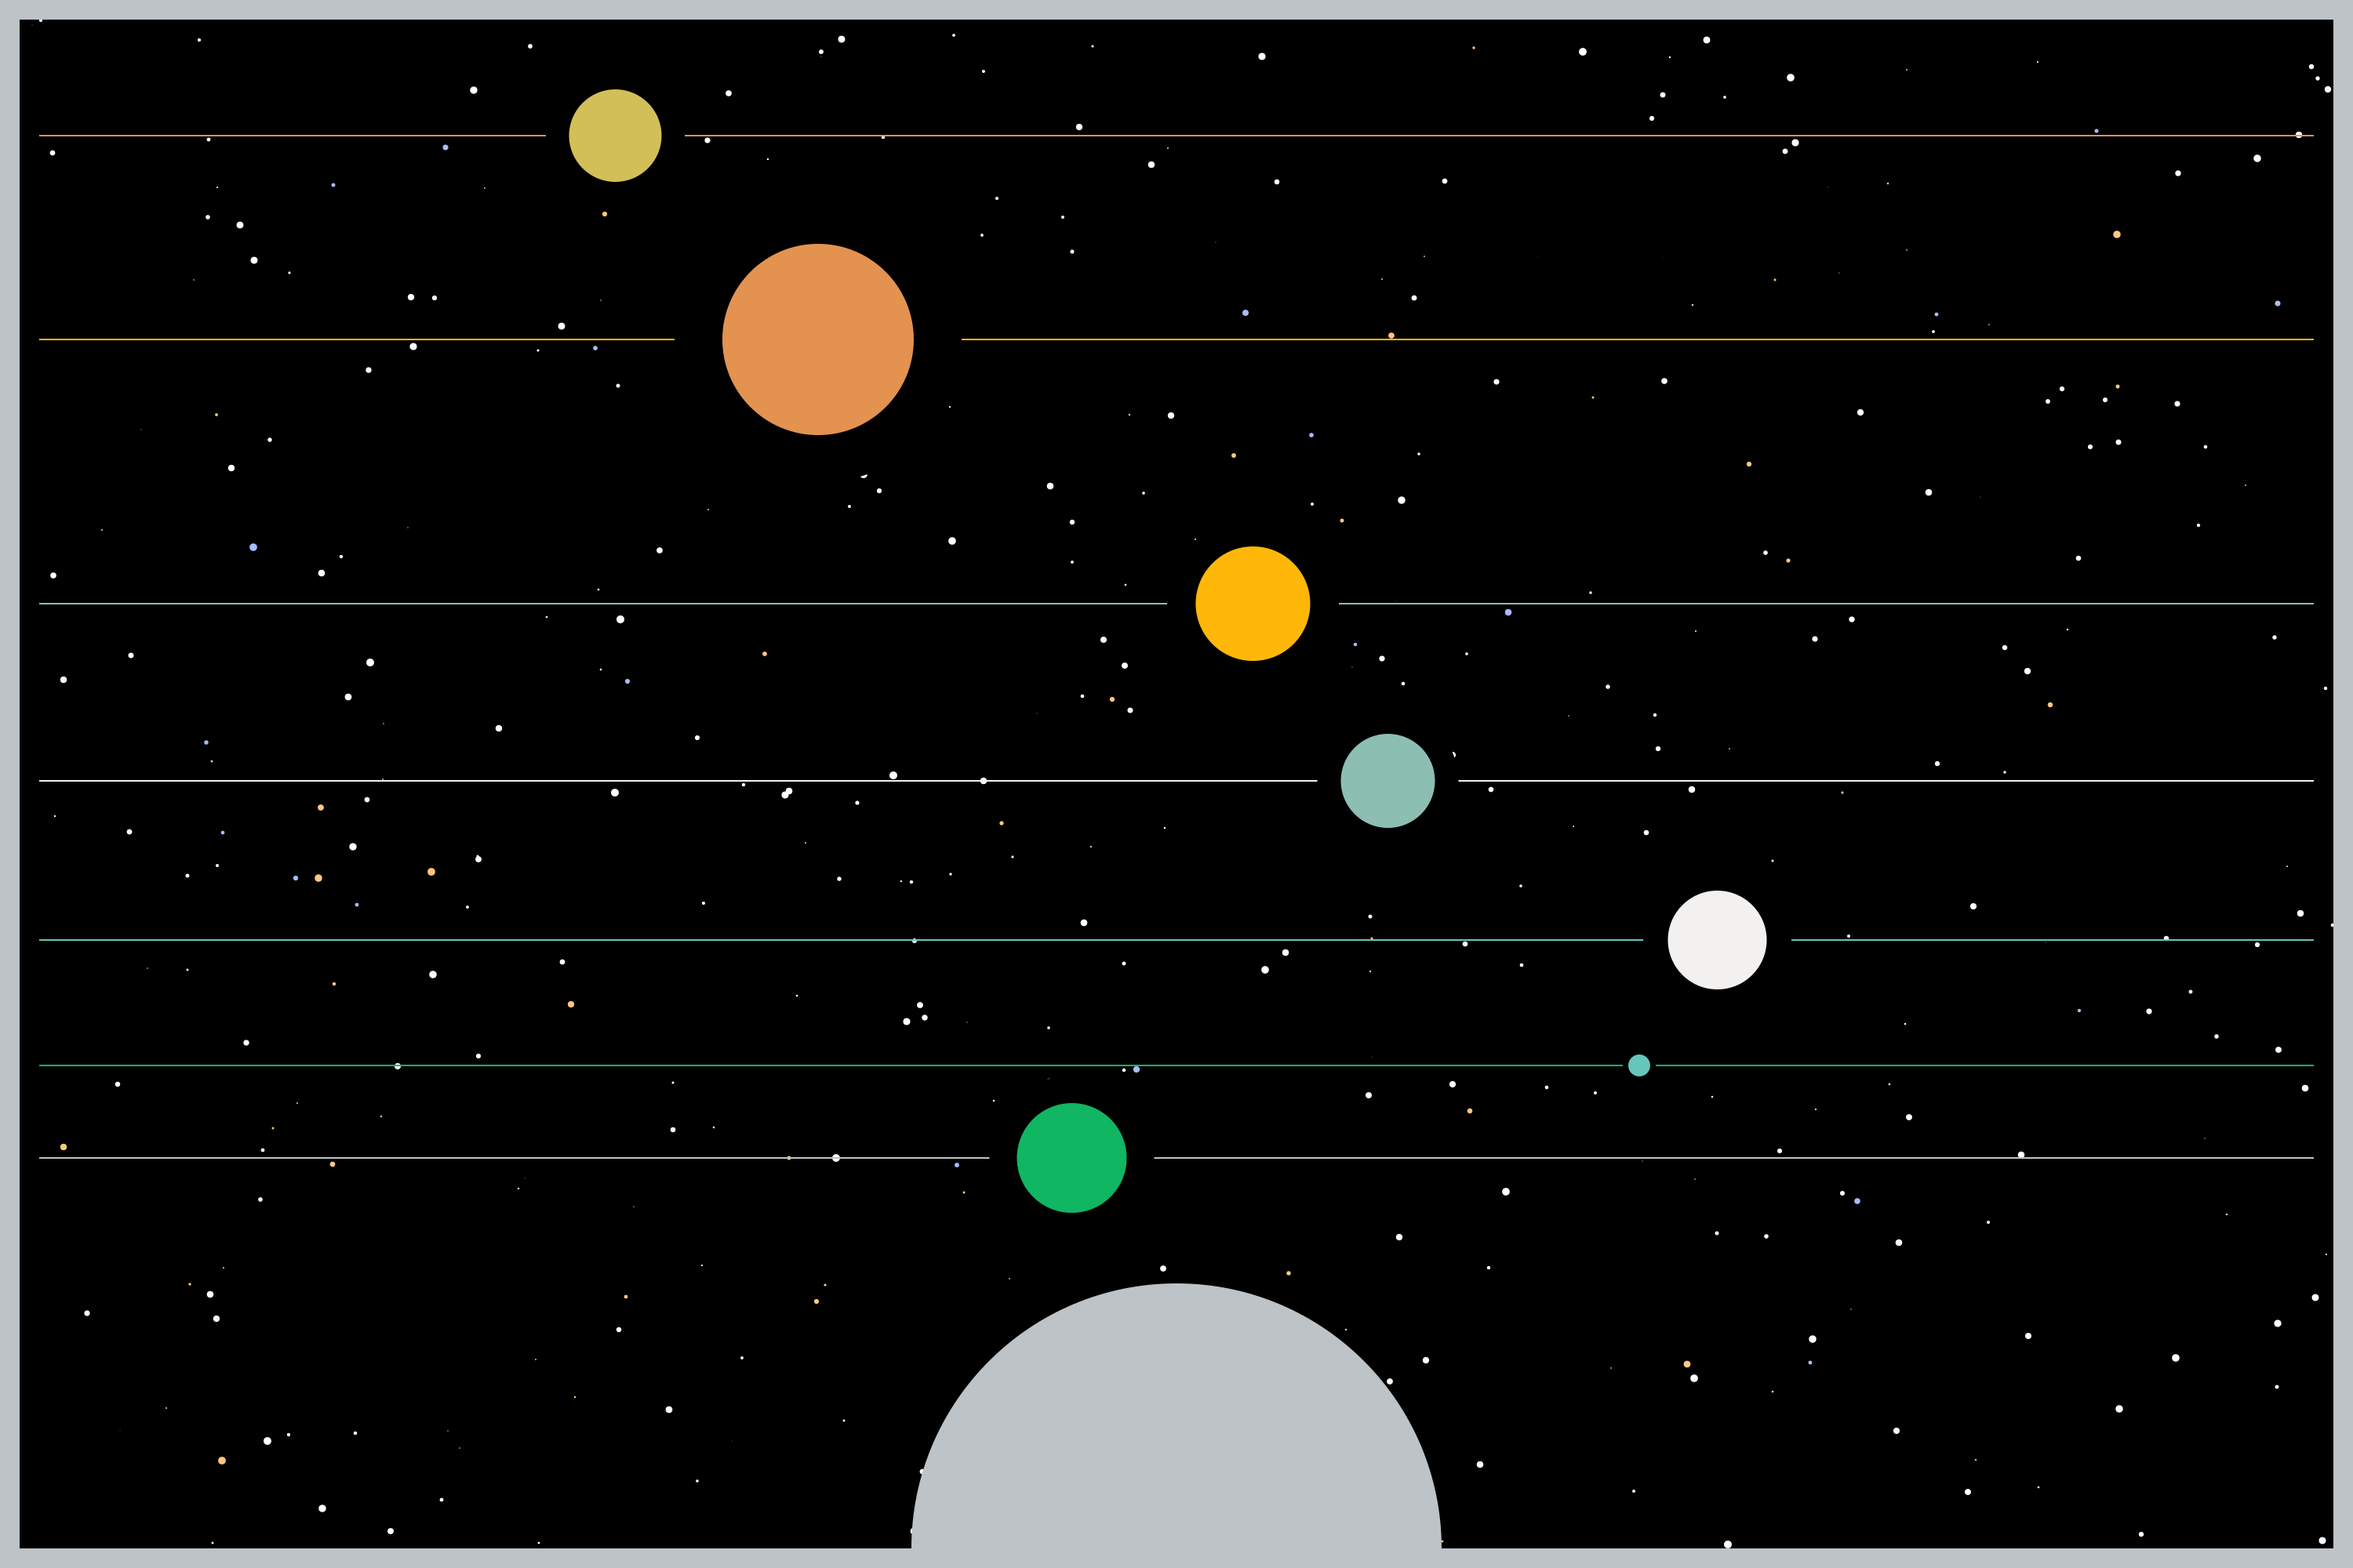
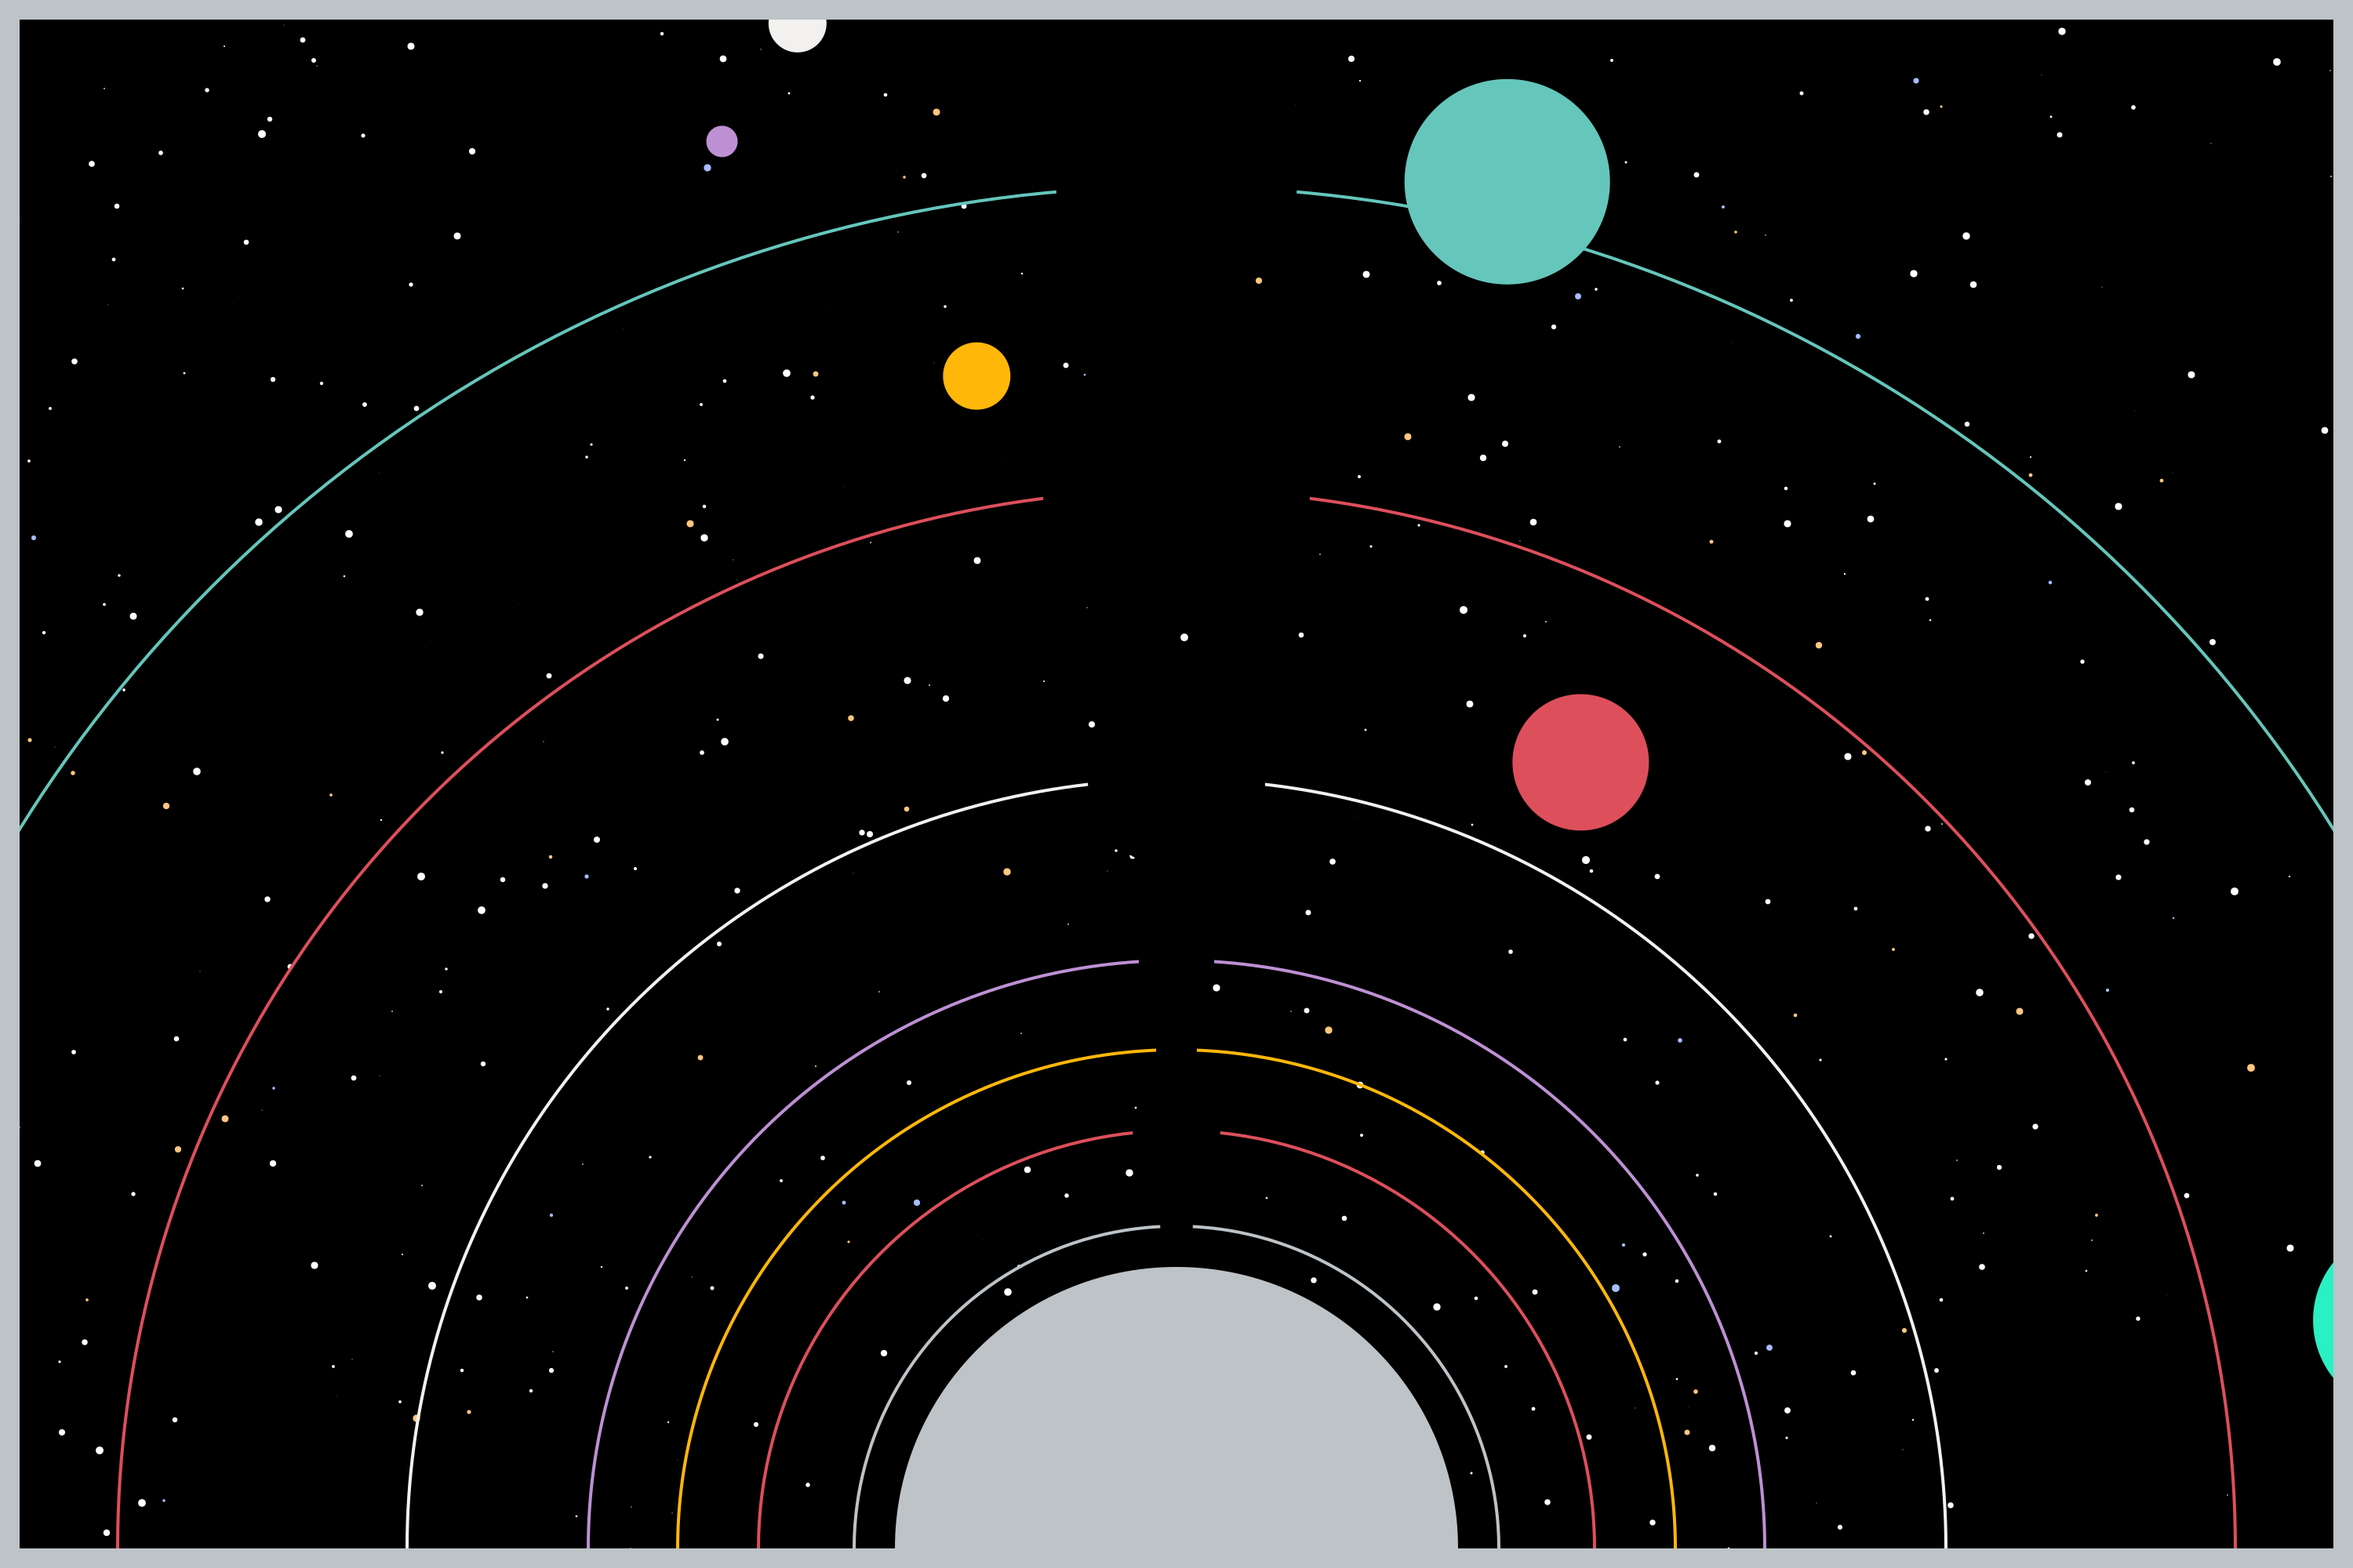
line display randomized

diff --git a/generative-planets.py b/generative-planets.py
@@ -49,16 +49,33 @@ def draw_background(cr, width, height, white, yellow, blue):
         cr.arc(random.randint(0, width), random.randint(0, height), random.uniform(.1, 5), 0, 2*math.pi)
         cr.set_source_rgb(167/255, 188/255, 1)
         cr.fill()
-        
-def points_on_circum(r,n=100):
+
+
+     
+# def points_on_circum(r,n=100):
+#                 points_positive = []
+#                 for x in range(0,n+1):
+#                     xcoord = (math.cos(2*math.pi/n*x)*r)
+#                     ycoord = (math.sin(2*math.pi/n*x)*r)
+#                     if(xcoord > 0 and ycoord > 0):
+#                         points_positive.append((xcoord, ycoord))
+#                 print(points_positive)
+#                 return points_positive
+
+def points_on_circum(r, width):
+                print(r, "this is insive function")
                 points_positive = []
-                for x in range(0,n+1):
-                    xcoord = (math.cos(2*math.pi/n*x)*r)
-                    ycoord = (math.sin(2*math.pi/n*x)*r)
+                for x in range(0, 100):
+                    xcoord = (math.cos(1.8*x) *r) + width/2 
+                    ycoord = (math.cos(x) *r)
                     if(xcoord > 0 and ycoord > 0):
                         points_positive.append((xcoord, ycoord))
+                # print(points_positive)
                 return points_positive
-   
+    
+# def points_on_circum(r,n=100):
+#     return [(math.cos(2*math.pi/n*x)*r,math.sin(2*math.pi/n*x)*r) for x in range(0,n+1)]
+
 def main():
     parser = argparse.ArgumentParser()
     parser.add_argument("--width", help="Specify Width", default=3000, type=int)
@@ -115,6 +132,7 @@ def main():
             
             if(args.orbit):
                 # cr, line, x, y, radius, r, g, b
+                print(height - next_center - border_size, "this is at the orbit draw spot", x)
                 draw_orbit(cr, 4, width/2, sun_center, height - next_center - border_size, .6, .6, .6)
                 draw_circle_fill(cr, width/2, next_center, next_size*1.3, 0, 0, 0)
             elif(args.line):
@@ -136,9 +154,12 @@ def main():
                 # what arg, x, y, radius, r, g, b
                     # x^ + y^ = r^
                 # (cr, x, y, radius, ...)
-                placement = random.choice(points_on_circum(next_center))
+                arc = height - next_center - border_size
+                print(arc, "this is at the draw planet part", x)
+                placement = random.choice(points_on_circum(arc, width))
+                print (placement)
                 # draw_circle_fill(cr, width/2, next_center, next_size, r, g, b)
-                draw_circle_fill(cr, placement[1],placement[0], next_size, r, g, b)
+                draw_circle_fill(cr, placement[0],placement[1], next_size, r, g, b)
                 
             elif(args.line):
                    
